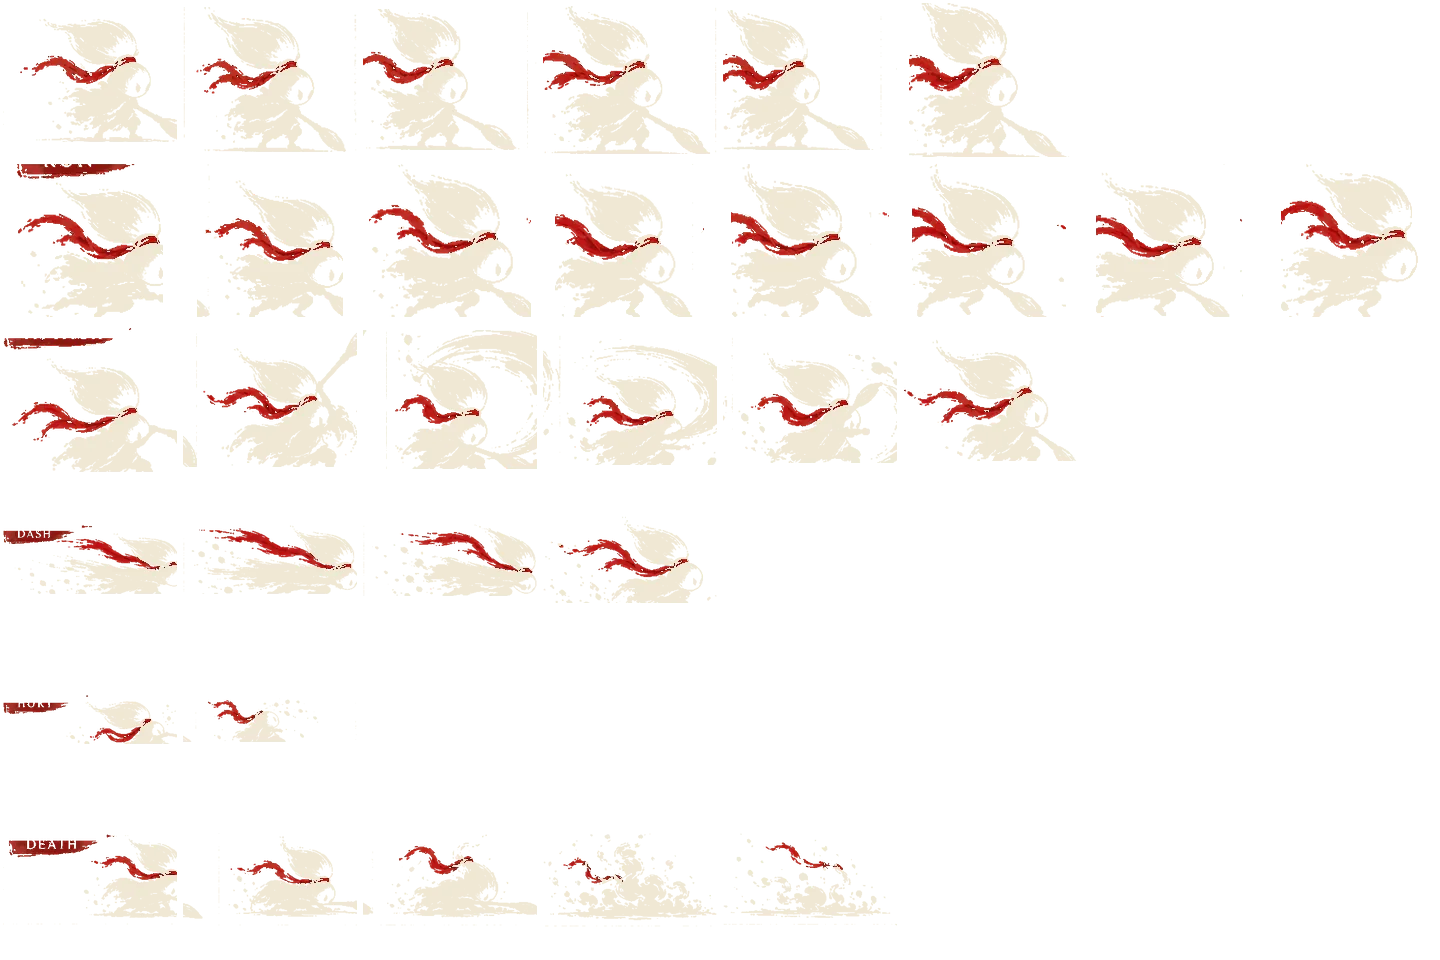
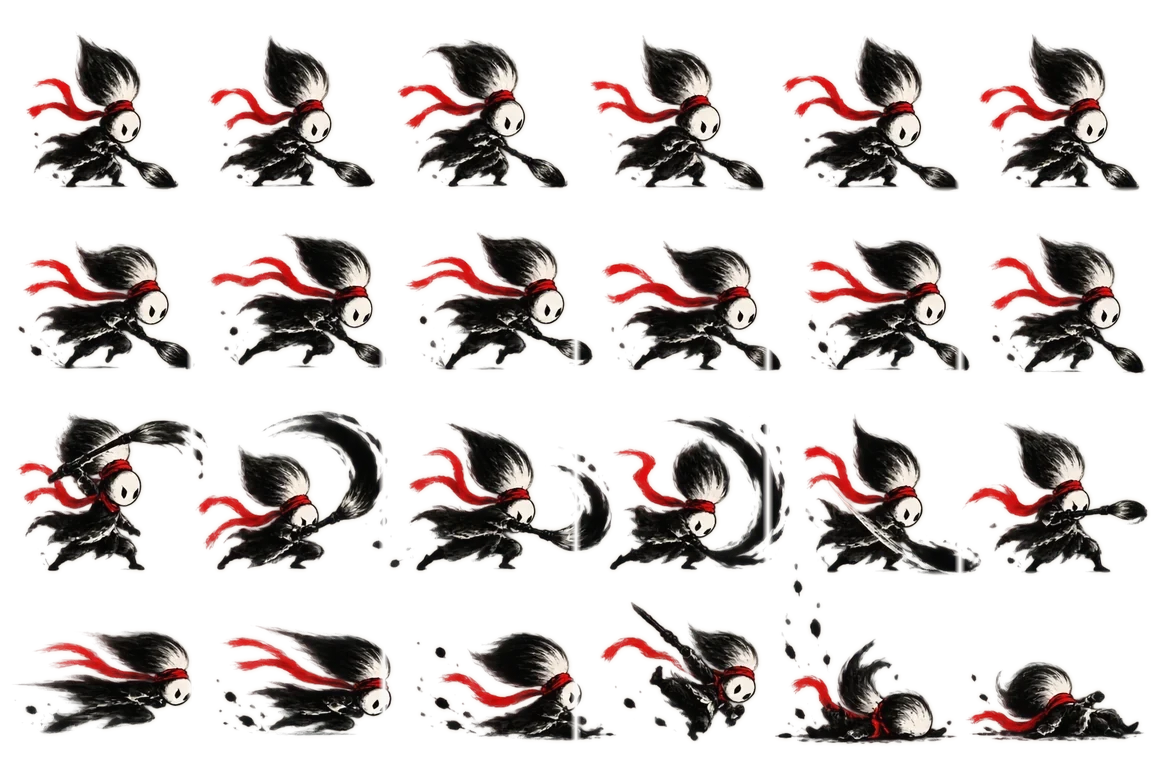
Replace boxed hero sheets with clean transparent ink-spirit animations

diff --git a/js/render.js b/js/render.js
@@ -1582,42 +1582,46 @@ const R = (() => {
     c.restore();
   }
 
-  /* The new hand-painted protagonist is a six-row Canvas atlas.
-     Load each world palette once. If loading fails, retain the original
-     procedural brush soul instead of breaking the game. */
+  /* Transparent, hand-cleaned 6x4 brush-spirit atlas. These frames have
+     true alpha (no washi tile or background rectangles). Load one image
+     per palette and keep the existing procedural soul as a safe fallback. */
   const heroImages={pale:null,dark:null};
   if(typeof Image!=='undefined'){
     for(const key of ['pale','dark']){
       const image=new Image();
       image.decoding='async';
-      image.src='./assets/hero-atlas'+(key==='dark'?'-night':'')+'.webp';
+      image.src='./assets/hero-atlas'+(key==='dark'?'-night':'')+'.webp?v=clean2';
       heroImages[key]=image;
     }
   }
   function paintHeroSprite(c,p,S,t){
     const image=heroImages[S.areaIdx===1?'dark':'pale'];
-    if(!image||!image.complete||!image.naturalWidth)return false;
+    /* An outdated cached six-row sheet must never draw as square tiles. */
+    if(!image||!image.complete||image.naturalWidth!==1152||image.naturalHeight!==768)
+      return false;
     const moving=(p.visualSpeed||0)>.27;
     const melee=S.primaryFx&&S.primaryFx.some(f=>
       ['brush','mallet','cutter'].includes(f.kind)&&f.life>0);
     const attack=(p.recoil||0)>.12||melee;
-    let row=0,count=6,fps=4;
-    if(S.mode==='dying'){row=5;count=5;fps=8;}
-    else if((p.hitPulse||0)>.01){row=4;count=2;fps=8;}
-    else if(S.shroudMotion>.1&&moving){row=3;count=4;fps=13;}
+    /* Row 0 idle (6), row 1 running (6), row 2 attacking (6);
+       row 3 combines dash (0..2), hurt (3) and defeat (4..5).
+       Source frames stay in their own 192px cell: never sample adjacent art. */
+    let row=0,start=0,count=6,fps=4;
+    if(S.mode==='dying'){row=3;start=4;count=2;fps=8;}
+    else if((p.hitPulse||0)>.01){row=3;start=3;count=1;fps=8;}
+    else if(S.shroudMotion>.1&&moving){row=3;count=3;fps=13;}
     else if(attack){row=2;count=6;fps=13;}
-    else if(moving){row=1;count=8;fps=10;}
-    /* RUN advances from the existing locomotion phase, not a separate
-       gameplay clock. The movement speed/hitbox remain exactly as before. */
-    const phase=row===1?(p.flowPhase||0)/ (Math.PI*2)*count:
-      row===5?Math.max(0,(1-(S.dyingT||0)/1.1))*count:t*fps;
-    const frame=Math.max(0,Math.floor(phase))%count;
+    else if(moving){row=1;count=6;fps=10;}
+    /* Keep the original locomotion phase, attack timings, flip and hitbox. */
+    const phase=row===1?(p.flowPhase||0)/(Math.PI*2)*count:
+      row===3&&start===4?Math.max(0,(1-(S.dyingT||0)/1.1))*count:t*fps;
+    const frame=start+Math.max(0,Math.floor(phase))%count;
     const face=Math.cos(moving?p.visualFacing:p.visualAim);
     const flip=face<-.15?-1:1;
     c.save();
     c.scale(flip,1);
     c.globalAlpha=1;
-    c.drawImage(image,frame*180,row*160,180,160,-23,-23,46,42);
+    c.drawImage(image,frame*192,row*192,192,192,-23,-23,46,42);
     c.restore();
     return true;
   }
